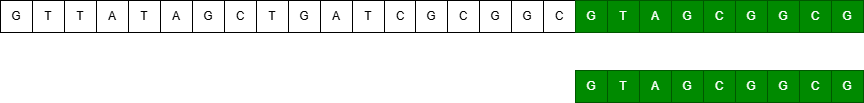
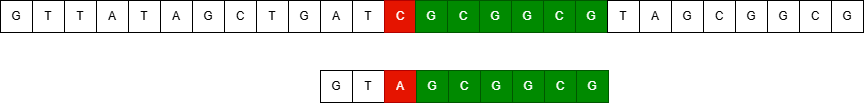
Desafio-arrumado

diff --git a/src/index.md b/src/index.md
@@ -575,13 +575,13 @@ Padrão = G T A G C G G C G
 
 ```
 
-Escolha a heurística que proporcione o maior salto!
 
 
 ::: Gabarito (Resumido)
 
 :DESAFIO
 
+O segredo do problema é entender que há casos em que será possível utilizar as duas heurísticas, nesses casos, deve-se escolher àquela que proporcionará o maior número de saltos
 :::
 
 ???
